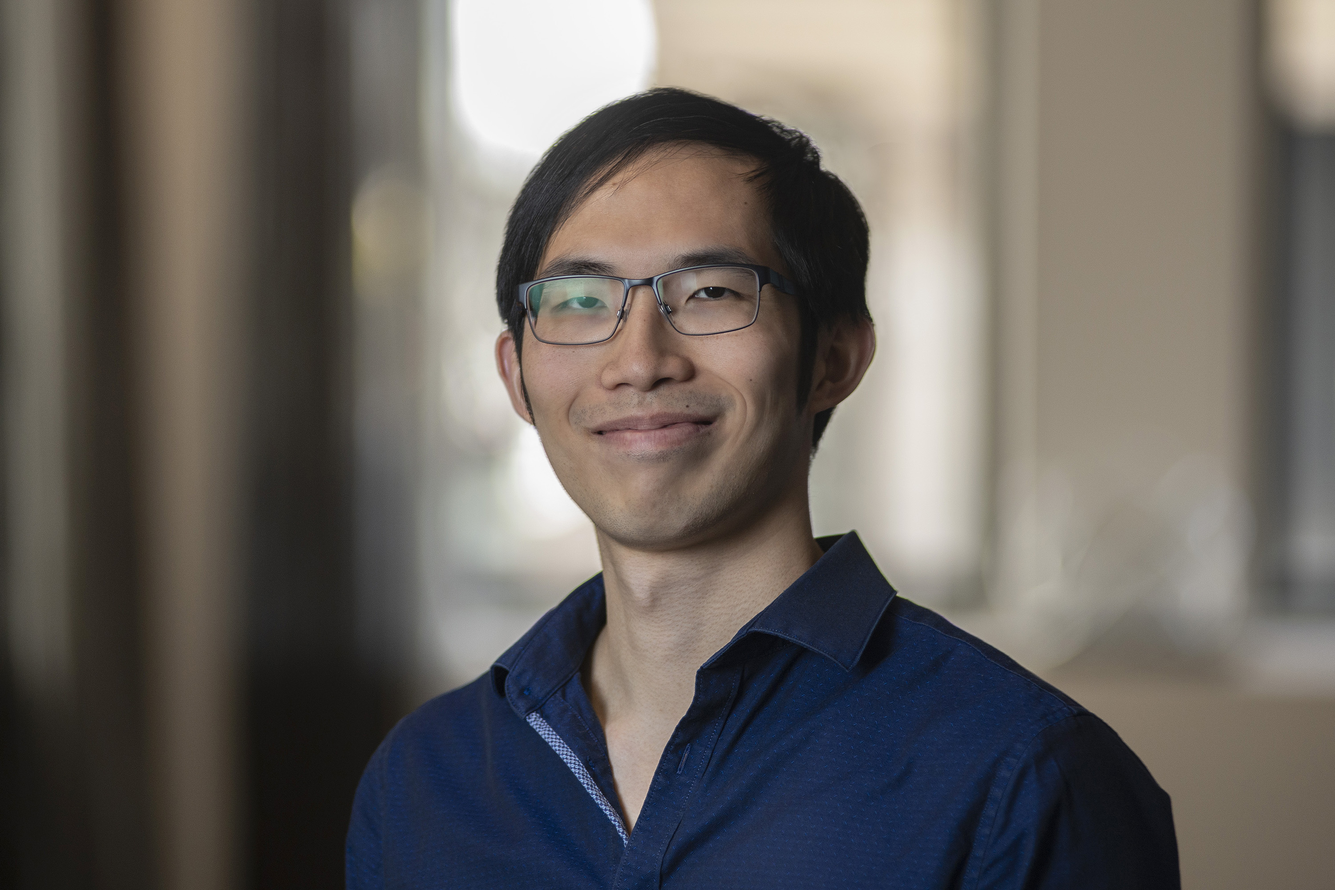
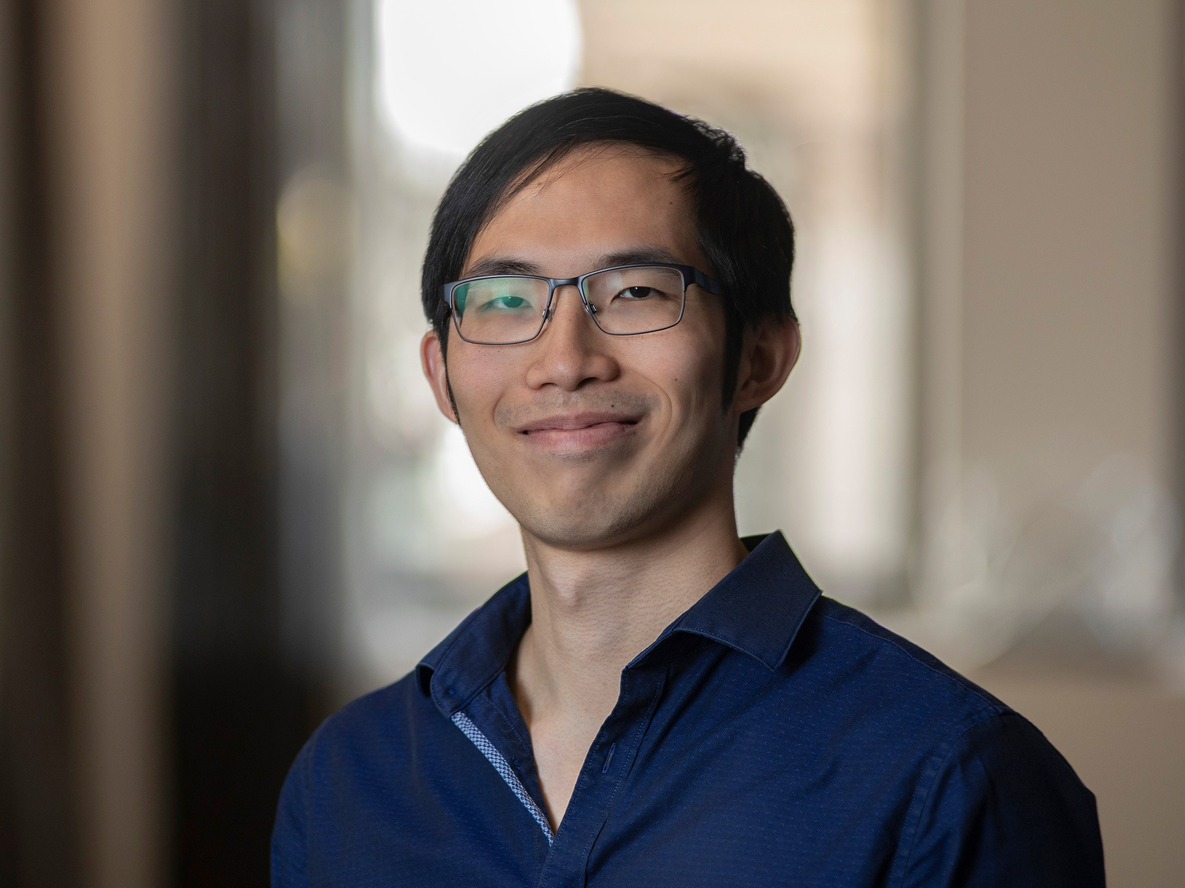
Add image

diff --git a/public/css/lanyon.css b/public/css/lanyon.css
@@ -556,3 +556,15 @@ a.pagination-item:hover {
 .layout-reverse.sidebar-overlay #sidebar-checkbox:checked ~ .sidebar {
   box-shadow: -.25rem 0 .5rem rgba(0,0,0,.1);
 }
+
+.column {
+  float: left;
+  width: 50%;
+}
+
+/* Clear floats after the columns */
+.row:after {
+  content: "";
+  display: table;
+  clear: both;
+}

diff --git a/index.md b/index.md
@@ -50,6 +50,12 @@ The animation in this poster is made using an animation engine for explanatory m
 
 ### The authors
 
+
+<img src="{{site.baseurl}}/public/image/Kaze.jpg"/> 
+
+<img src="{{site.baseurl}}/public/image/Miles.jpeg"/> 
+
+
 {% if page.comments %}
 <div id="disqus_thread"></div>
 <script>
